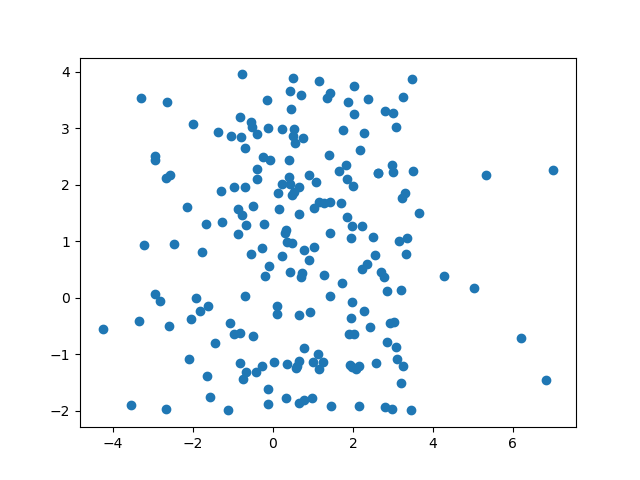
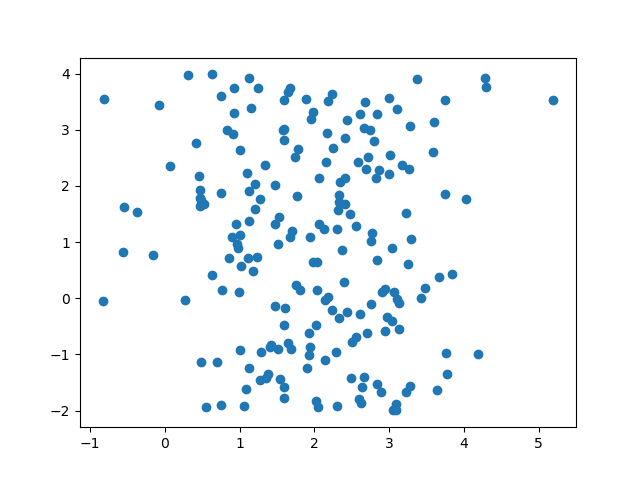
Flask로 산점도 출력

diff --git a/07.FlaskWeb/templates/99_1.scatter.from.html b/07.FlaskWeb/templates/99_1.scatter.from.html
@@ -1,0 +1,42 @@
+<!DOCTYPE html>
+<html lang="en">
+<head>
+    <meta charset="UTF-8">
+    <meta name="viewport" content="width=device-width, initial-scale=1.0">
+    <title>scatter</title> 
+    <style>
+        td {text-align: center; padding: 5px;}
+    </style>
+</head>
+<body style="margin: 40px;">
+    <h2>산점도</h2>
+    <hr>
+    <form action="/scatter" method="post">
+        <table>
+            <tr>
+                <td>갯수(num)</td>
+                <td><input type="text" name="num"></td>
+            </tr>
+            <tr>
+                <td>평균(avg)</td>
+                <td><input type="text" name="avg"></td>
+            </tr>
+            <tr>
+                <td>표준편차(std)</td>
+                <td><input type="text" name="std"></td>
+            </tr>
+            <tr>
+                <td>최소값(min)</td>
+                <td><input type="text" name="min"></td>
+            </tr>
+            <tr>
+                <td>최대값(max)</td>
+                <td><input type="text" name="max"></td>
+            </tr>
+            <tr>
+                <td colspan="2"><input type="submit" value="제출"></tr>
+            </tr>
+        </table>
+    </form>
+</body>
+</html>

diff --git a/07.FlaskWeb/templates/99_1.scatter.res.html b/07.FlaskWeb/templates/99_1.scatter.res.html
@@ -1,0 +1,19 @@
+<!DOCTYPE html>
+<html lang="en">
+<head>
+    <meta charset="UTF-8">
+    <meta name="viewport" content="width=device-width, initial-scale=1.0">
+    <title>산점도</title>
+</head>
+<body style="margin: 40px;">
+    <h2>산점도</h2>
+    <hr>
+    <img src="{{url_for('static', filename ='img/scatter.png')}}"><br>
+<!--     <h4>X축: 정규분포(평균={{avg}}, 표준편차={{std}})</h4>
+    <h4>Y축: 균등분포(최소={{min}}, 최대={{max}})</h4> -->
+    <h4>X축: 정규분포(평균={{params.avg}}, 표준편차={{params.std}})</h4>
+    <h4>Y축: 균등분포(최소={{params.min}}, 최대={{params.max}})</h4>
+    <br><br>
+    <button onclick="location.href='/scatter'">재실행</button>
+</body>
+</html>

diff --git a/07.FlaskWeb/99_1.scatter.py b/07.FlaskWeb/99_1.scatter.py
@@ -1,0 +1,36 @@
+import numpy as np
+import matplotlib.pyplot as plt
+from flask import Flask, render_template, request
+import os
+
+app = Flask(__name__)
+
+@app.route('/')
+def index():
+    return '''<h1>산점도 그리기</h1>
+                <button onclick="location.href='/scatter'">실행</button>'''
+
+
+@app.route('/scatter', methods=['GET','POST'])
+def scatter():
+    if request.method == 'GET':
+        return render_template('99_1.scatter.from.html')
+    else:
+        num = int(request.form['num'])
+        avg = float(request.form['avg'])
+        std = float(request.form['std'])
+        min = float(request.form['min'])
+        max = float(request.form['max'])
+        xs = np.random.normal(avg, std, num)      # 평균, 표준편차, 갯수
+        ys = np.random.uniform(min,max, num)      # 최소, 최대, 갯수
+        plt.figure()
+        plt.scatter(xs, ys)
+        filename = os.path.join(app.static_folder, 'img/scatter_01.png')
+        plt.savefig(filename)
+        # return render_template('99_1.scatter.res.html', avg=avg, std=std, min=min, max=max)
+        params = {'avg':avg, 'std':std, 'min':min, 'max':max} # 딕셔너리로 파라메터를 전달
+        return render_template('99_1.scatter.res.html', params=params)  # 딕셔너리로 파라메터를 전달
+    
+
+if __name__ == '__main__':
+    app.run(debug=True)   
